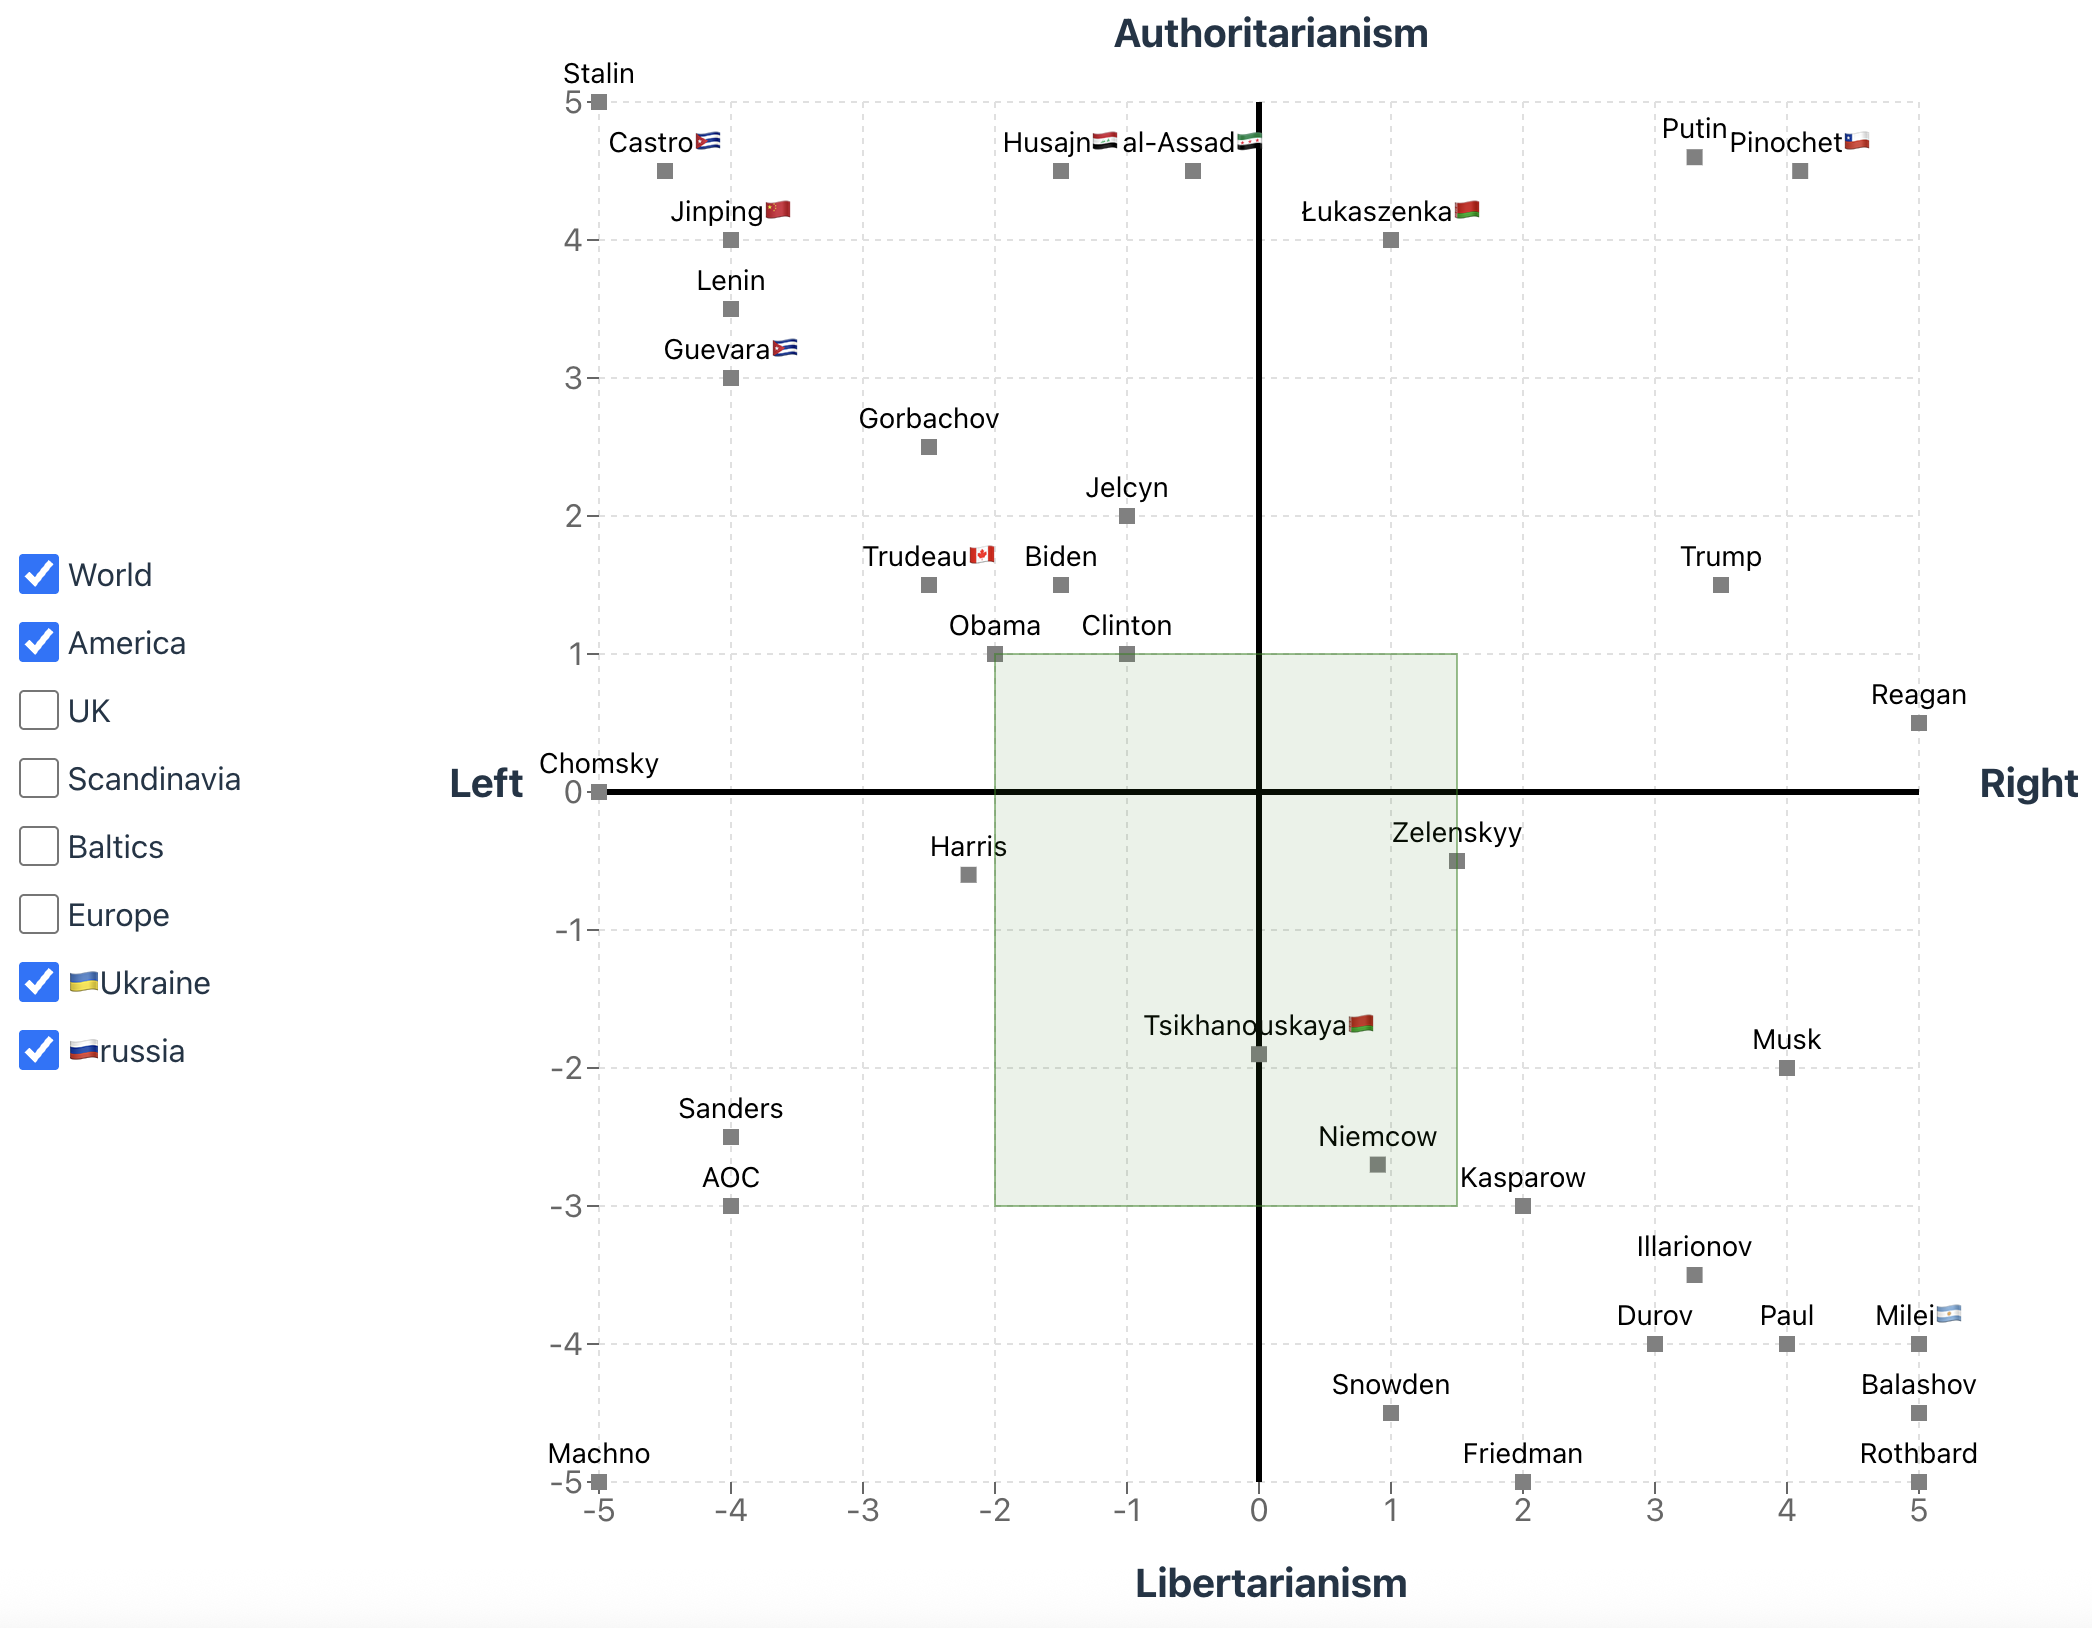
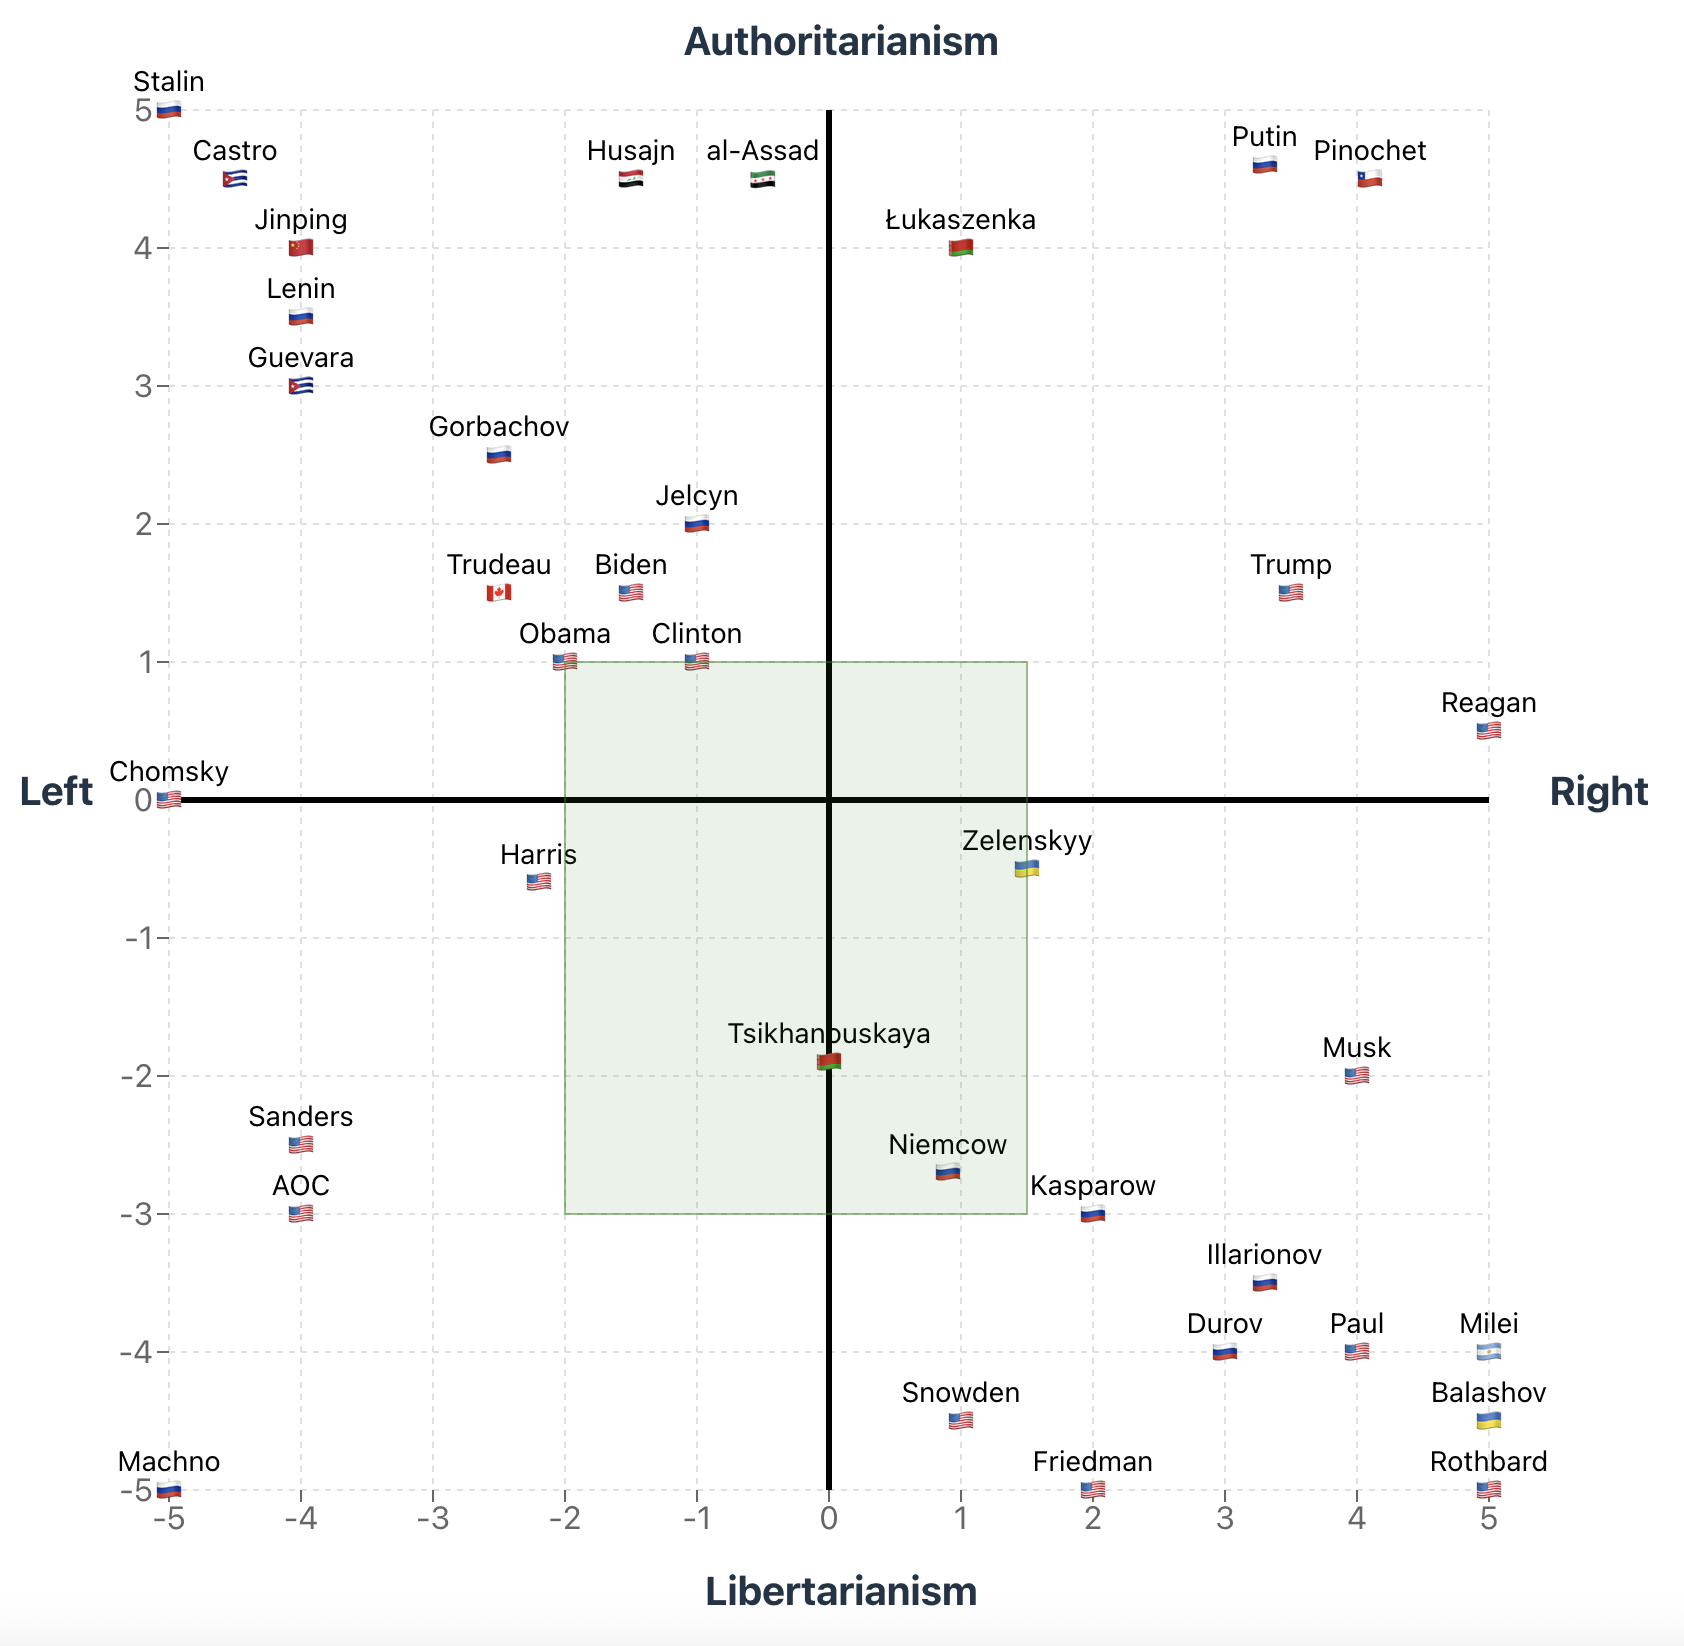
Implemented Scatter shape as flag (unfortunately requires ALL data entries to have flag value)

diff --git a/src/components/PoliticalCompassChart.tsx b/src/components/PoliticalCompassChart.tsx
@@ -11,27 +11,42 @@ import {
   ReferenceArea,
   // Legend,
 } from "recharts";
+// import { ScatterPointItem } from "recharts/types/cartesian/Scatter";
 
-import AxisLabels from "./AxisLabels";
 import {
   getColorByType,
   getDataPointFillByType,
   getDataPointStyleByType,
-  getShapeByType,
+  // getShapeByType,
   myPoliticalEdges,
 } from "../common/helpers";
 import { DataKind, PoliticalCompassChartProps } from "../common/models";
+import AxisLabels from "./AxisLabels";
+import ShapeAsFlagSvg from "./ShapeAsFlagSvg";
 
 const PoliticalCompassChart: React.FC<PoliticalCompassChartProps> = (props) => {
   const mapper = (scatterId: DataKind) => {
     // Note. YES, <Scatter> should rendered DIRECTLY as child under <ScatterChart>
     // If to extract this chunk of code into dedicated component, then code will NOT render!
+
+    // Unfortunately, it's kinda not possible to implement conditional proper code here (ReCharts API TypeScript restriction)
+    // TBD/MAYBE someday
+    // const shapeValue = (item: ScatterPointItem) => {
+    //   if (item.payload?.flag) {
+    //     return <ShapeAsFlagSvg data={item} />;
+    //   } else {
+    //     return getShapeByType(scatterId);
+    //   }
+    // };
+
     return (
       <Scatter
         name={`${scatterId}-people`}
         data={props.data[scatterId]}
         fill={getColorByType(scatterId)}
-        shape={getShapeByType(scatterId)}
+        // shape={getShapeByType(scatterId)} // works
+        // shape={shapeValue} // does NOT work
+        shape={<ShapeAsFlagSvg />} // works, but requires to have `item.payload.flag` always
         isAnimationActive={false}
       >
         <LabelList

diff --git a/src/common/helpers.ts b/src/common/helpers.ts
@@ -1,8 +1,8 @@
 import { CSSProperties } from "react";
 import { SymbolType } from "recharts/types/util/types";
 
-import poland2025 from "../data/poland2025.json";
-import polandOther from "../data/polandOther.json";
+import poland2025Raw from "../data/poland2025.json";
+import polandOtherRaw from "../data/polandOther.json";
 import world from "../data/world.json";
 import america from "../data/america.json";
 import uk from "../data/uk.json";
@@ -13,6 +13,14 @@ import ukraine from "../data/ukraine.json";
 import russia from "../data/russia.json";
 
 import { CompassData, DataKind, Person } from "./models";
+
+const setFlag = (item: Person) => ({
+  ...item,
+  flag: "🇵🇱",
+});
+
+const poland2025 = poland2025Raw.map(setFlag);
+const polandOther = polandOtherRaw.map(setFlag);
 
 export const mainData: CompassData = {
   poland2025,

diff --git a/src/components/ShapeAsFlagSvg.tsx b/src/components/ShapeAsFlagSvg.tsx
@@ -1,0 +1,26 @@
+import { ScatterPointItem } from "recharts/types/cartesian/Scatter";
+
+import "./shapeAsFlag.css";
+
+//  maybe
+// interface ShapeAsFlagSvgProps {
+//   data: ScatterPointItem;
+// }
+
+const ShapeAsFlagSvg = (data: ScatterPointItem) => {
+  console.log(data);
+  return (
+    <text
+      // don't use data.x and .data.y
+      x={data.cx}
+      y={data.cy}
+      textAnchor="middle"
+      dominantBaseline="central"
+      fontSize={14}
+    >
+      {data?.payload?.flag}
+    </text>
+  );
+};
+
+export default ShapeAsFlagSvg;

diff --git a/src/components/shapeAsFlag.css b/src/components/shapeAsFlag.css
@@ -1,0 +1,7 @@
+/* So far NOT needed, but ChatGPT referred that NOT all browsers support flags or emojis in general, because it's rendering by font */
+/*
+text {
+  font-family: "Apple Color Emoji", "Segoe UI Emoji", "Noto Color Emoji",
+    sans-serif;
+}
+*/

diff --git a/src/common/models.ts b/src/common/models.ts
@@ -14,6 +14,7 @@ export type DataKind =
 export interface Person {
   firstName?: string;
   lastName: string;
+  flag?: string;
   x: number;
   y: number;
 }
